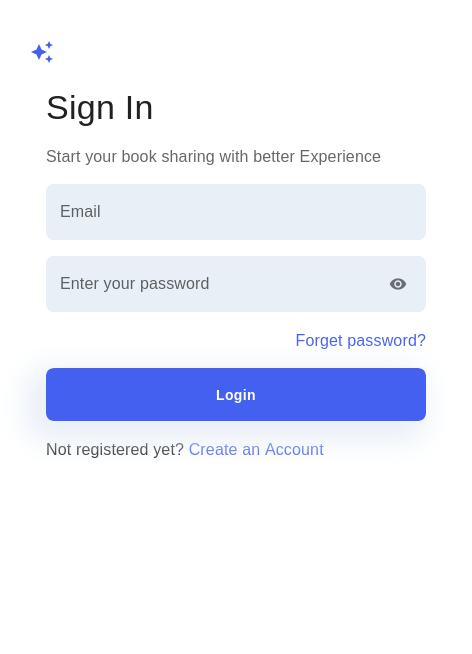
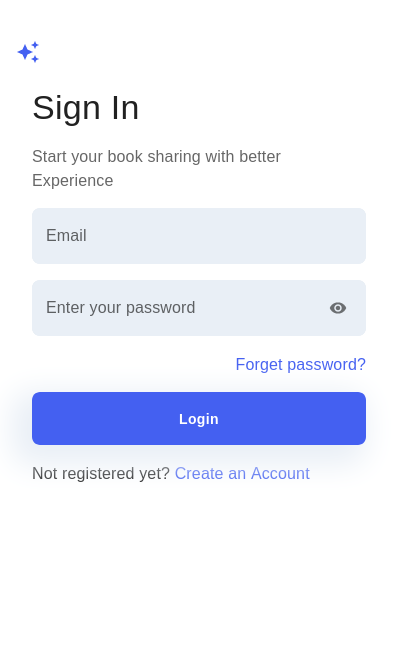
mobile screenshot added

diff --git a/README.md b/README.md
@@ -81,5 +81,43 @@ Check out current hosting here: https://bookd-web.herokuapp.com
    ```
 
 ## Screenshots
-
-<!-- ![Manual](https://github.com/CSEKINGS/book_donation_backend/blob/master/views/manual.png?raw=true) -->
+<table>
+<tr><th>Description</th><th>Desktop</th><th>Mobile</th></tr>
+<tr>
+<td><h3>Signin page</h3></td>
+<td>
+<img src="https://github.com/CSEKINGS/book-donation-react-ts-web/blob/master/src/assets/screenshots/signin.png?raw=true"/>
+</td>
+<td>
+<img src="https://github.com/CSEKINGS/book-donation-react-ts-web/blob/master/src/assets/screenshots/signinM.png?raw=true"/>
+</td>
+</tr>
+<tr>
+<tr>
+<td><h3>Signin page</h3></td>
+<td>
+<img src="https://github.com/CSEKINGS/book-donation-react-ts-web/blob/master/src/assets/screenshots/signup.png?raw=true"/>
+</td>
+<td>
+<img src="https://github.com/CSEKINGS/book-donation-react-ts-web/blob/master/src/assets/screenshots/signupM.png?raw=true"/>
+</td>
+</tr>
+<tr>
+<td><h3>Dashboard</h3></td>
+<td>
+<img src="https://github.com/CSEKINGS/book-donation-react-ts-web/blob/master/src/assets/screenshots/dasboard.png?raw=true"/>
+</td>
+<td>
+<img src="https://github.com/CSEKINGS/book-donation-react-ts-web/blob/master/src/assets/screenshots/dashboardM.png?raw=true"/>
+</td>
+</tr>
+<tr>
+<td><h3>Dashboard</h3></td>
+<td>
+<img src="https://github.com/CSEKINGS/book-donation-react-ts-web/blob/master/src/assets/screenshots/dasboard.png?raw=true"/>
+</td>
+<td>
+<img src="https://github.com/CSEKINGS/book-donation-react-ts-web/blob/master/src/assets/screenshots/dashboardM.png?raw=true"/>
+</td>
+</tr>
+</table>
